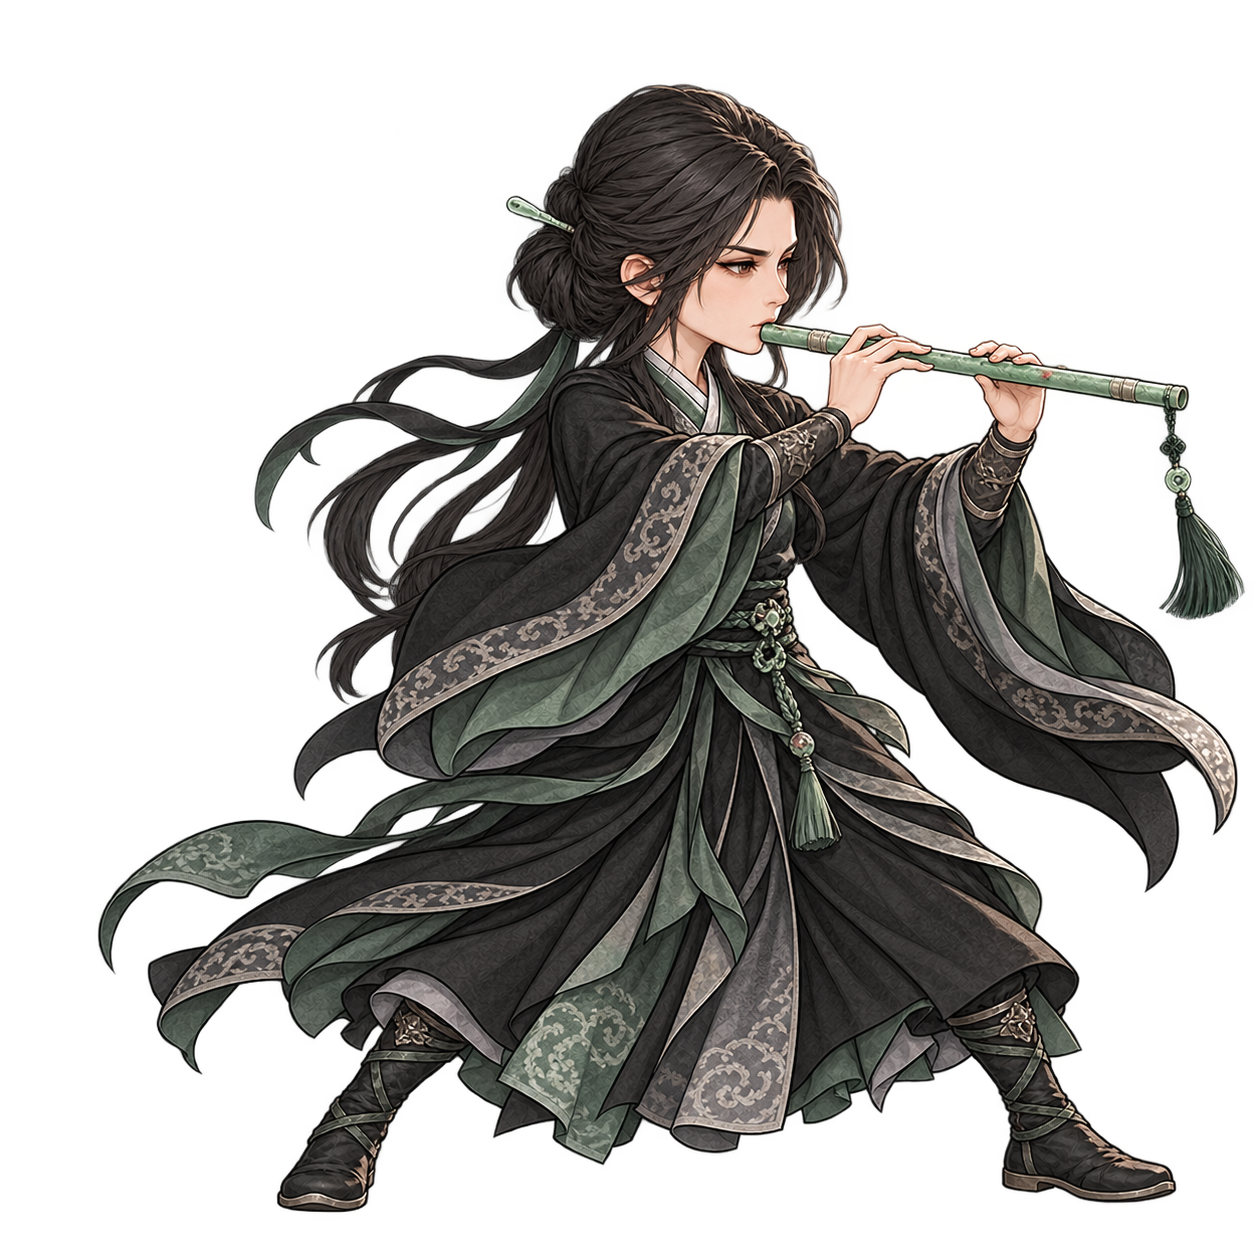
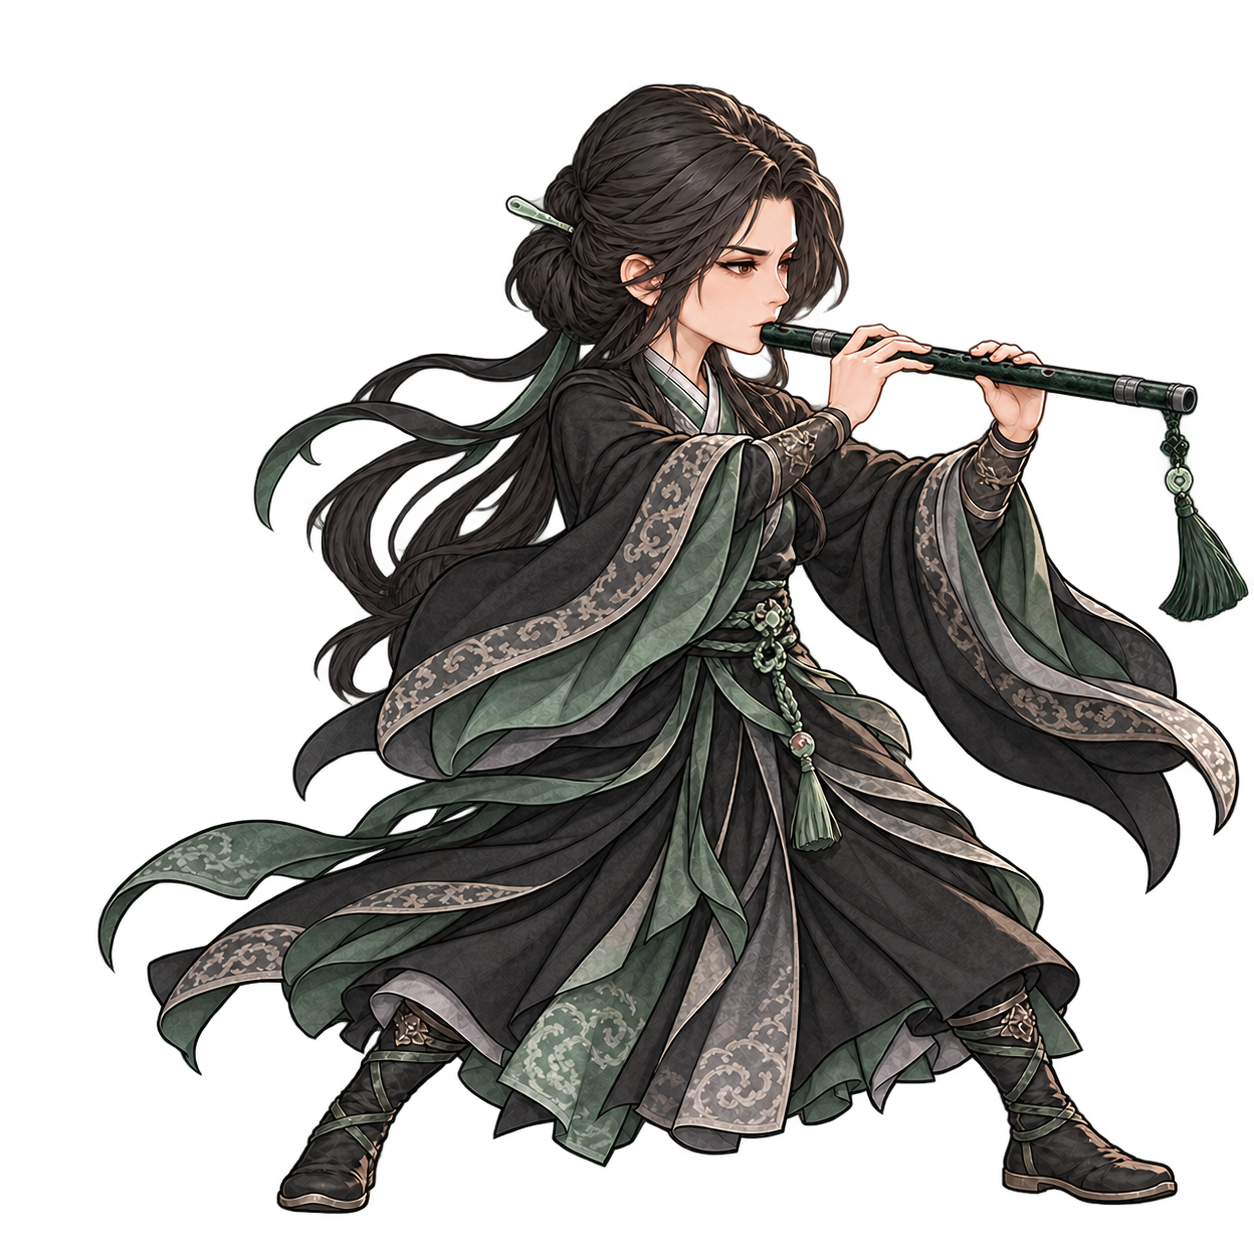
Complete major character battle sprites and paired formations

diff --git a/Docs/ART_LOOKS.md b/Docs/ART_LOOKS.md
@@ -413,3 +413,22 @@
 기존 개인전 ArtId가 새 Battle 파일을 조회하며 코드·진행·전투 수치·보상은 변경하지 않는다. 단혜·사란의 `mothers_fire_ice`, 효민·효효의 `gal_hyo_duet`은 별개 복합 그림 키이므로 개인 한 명의 SD로 대체하지 않는다. 기존 세 번째 묶음의 5명과 Standing·다른 Battle·default SD는 유지한다.
 
 검증: 5종 모두 1254×1254 RGBA·비중복 이미지·고유 Unity GUID다. 가시 영역과 무기·소품·발끝은 캔버스 안에 있다. 모서리는 투명하며 단혜·사란의 좌하단만 1/255 미세 노이즈다. 실제 ArtLibrary 소스와 파일 기반 Resources 대역으로 개인 키 5개·해당 적 5개가 전용 SD를 조회함을 확인했고, 기존 default 3종의 대체 규칙·StoryCast 식별 검사도 통과했다. 코드 변경은 없으며 Unity 에디터의 실제 렌더링·적 좌우 반전·전투 칸 크기는 확인하지 못했다.
+
+
+### 중요 인물 잔여 SD 및 복합 그림 완료 — 2026-11-01
+
+사용자의 「나머지 중요 인물 전부」 요청에 따라 남은 3명과 복합 2종을 추가했다. 개인 23명+복합 2종의 완료 목록은 [IMPORTANT_SD_ROSTER.md](IMPORTANT_SD_ROSTER.md)를 따른다. 새 개인 3명은 동일 키 Standing이 없어 28~29권 재분석에 확인된 요소로 디자인했다. 전부 오른쪽을 바라보는 1254×1254 RGBA이며, 복합 그림은 기존 개인 SD를 직접 참조했다.
+
+| 대상 / Battle 키 | 확인된 원작 요소 | 이번 미술 해석 |
+|---|---|---|
+| 갈효효 / `gal_hyo_hyo` | 일곱째 딸·은창선녀·구련창/질풍은섬창, 은금 속에서 꺼내는 은창 삼은령(28~29권) | 짧은 검은 머리와 은색 끈·작은 매듭, 당찬 눈매·곧은 눈썹과 굳은 입매, 검은 옷·청회/은색 안감, 등에 은금을 메고 양손으로 은창을 잡는 자세 |
+| 갈효묘 / `gal_hyo_myo` | 열여섯 막내·표묘선녀·연검, 흑설묘·인질극을 자원하는 기민함(28~29권) | 어린 티가 나는 둥근 얼굴·장난스러운 미소·낮은 머리 매듭과 검정/회보라의 완전히 덮인 무복, 낮게 굽은 연검과 뒤쪽 발의 작은 짙은 고양이. 고양이 털/눈 색은 미술 해석 |
+| 흑견 / `heukgyeon` | 흑천십비 노졸·이마의 犬 자·흑오박룡삭·흑견후, 무화에 대한 광신적 충성·추적/위장/생포(28~29권) | 벗겨진 정수리·옆머리와 수염·깊은 주름·큰 코·거친 도발 표정, 검정/갈색의 닳은 무복과 두 손으로 다루는 검은 밧줄. 개나 늑대로 의인화하지 않음 |
+| 단혜·사란 / `mothers_fire_ice` | 불꽃과 얼음의 합격(29권) | 개인 SD의 붉은 머리/호리병/화염 손과 검은 낮은 머리/청회 안감/빙편을 함께 배치. 두 얼굴과 손의 방향은 오른쪽, 하나의 새 인물로 합치지 않음 |
+| 갈효민·갈효효 / `gal_hyo_duet` | 흑옥 흑소와 은금(칠현금)의 합주·무음탄주(29권) | 효민은 뒤에서 서서 흑소, 효효는 앞에서 낮게 앉아 은금 연주. 개인의 얼굴·머리·복식은 보존하고 은창은 합주 그림에서 따로 꺼내지 않음 |
+
+갈효민 개인 SD의 피리는 29권에서 확인된 흑옥 흑소에 맞춰 옅은 녹색에서 흑녹색으로 바꿨다. 기존 파일명·Unity `.meta`·GUID와 얼굴·복식·자세는 유지하며, 합주 그림도 같은 피리를 사용한다. 직전 4차의 옥소 표시는 악기 종류이며 정확한 밝은 녹색은 최신 29권 근거에 따라 대체한다.
+
+얼굴 골격·연령 인상·세부 머리·표정·복식 문양·고양이 색·세부 무기 장식은 게임용 미술 해석이다. 효묘의 자발적 합류 동기를 확정된 연애로 바꾸거나 고양이에게 새 전투 능력을 추가하지 않는다. 흑견의 패배를 사망으로 바꾸지 않는다. 복합 그림은 같은 전투 칸의 장면 표현이며 새 동료 편성이나 전투 규칙이 아니다. 기존 ArtId로 연결하고 코드·위력·진행·보상은 변경하지 않는다.
+
+검증: 신규 5장과 흑소 수정 1장은 모두 1254×1254 RGBA이며 가시 인물·악기·무기·고양이 영역이 캔버스 안에 있다. 신규 Unity GUID는 중복이 없고 효민의 기존 메타는 바이트 단위로 보존했다. 모서리 알파는 0이며 효묘·합격·합주의 좌하단만 1/255 미세 노이즈다. 현재 Core 빌드와 기존 StoryCast 식별 검사가 통과했다. 실제 ArtLibrary 소스에 파일 기반 Resources/도형 대역을 적용한 검사에서 개인 23명+복합 2키·관련 적 57개 변형의 전용 SD 연결과 남은 default 3종 규칙을 확인했다. Unity 실제 렌더링·좌우 반전·칸 내부 크기·Android 화면은 확인하지 못했다.

diff --git a/Docs/IMPORTANT_SD_ROSTER.md b/Docs/IMPORTANT_SD_ROSTER.md
@@ -1,0 +1,38 @@
+# 중요 인물 전투 SD 완료 목록
+
+2026-11-01: 처음 사용자에게 중요로 분류한 23명과 복합 그림 2종의 제작·리소스 연결을 완료했다. 애매로 분류한 인물 전체나 대화에만 등장하는 추가 인물을 완료했다는 뜻은 아니다. 실제 Unity 렌더링은 확인하지 못했다.
+
+| 인물 | Battle 키 | 상태 |
+|---|---|---|
+| 나일천 / 서천 | `na_ilcheon` | 전용 SD |
+| 무명 | `mumyeong` | 전용 SD |
+| 칠상흔 / 이벽한 | `chil_sangheun` | 전용 SD |
+| 독고령 / 영령 | `dokgo_ryeong` | 전용 SD |
+| 공손절휘 | `gongson_jeolhwi` | 전용 SD |
+| 진령 | `jin_ryeong` | 전용 SD |
+| 임덕성 | `im_deokseong` | 전용 SD |
+| 검성 모용정천 | `geom_seong` | 전용 SD |
+| 흑룡왕 해응신 | `heukryong_wang` | 전용 SD |
+| 락비오 | `rakbio` | 전용 SD |
+| 자군 | `jagun` | 전용 SD |
+| 전혼 | `jeonhon` | 전용 SD |
+| 창랑 / 마랑객 | `changrang` | 전용 SD |
+| 혈심란 교옥 | `gyo_ok` | 전용 SD |
+| 구천현녀 무화 | `mu_hwa` | 전용 SD |
+| 단혜 | `dan_hye` | 전용 SD |
+| 사란 | `sa_ran` | 전용 SD |
+| 갈효린 | `gal_hyo_rin` | 전용 SD |
+| 갈효진 | `gal_hyo_jin` | 전용 SD |
+| 갈효민 | `gal_hyo_min` | 전용 SD |
+| 갈효효 | `gal_hyo_hyo` | 전용 SD |
+| 갈효묘 | `gal_hyo_myo` | 전용 SD |
+| 흑견 | `heukgyeon` | 전용 SD |
+
+| 복합 그림 | Battle 키 | 상태 |
+|---|---|---|
+| 단혜·사란 불꽃과 얼음 | `mothers_fire_ice` | 두 인물의 합격 SD |
+| 갈효민·갈효효 무음탄주 | `gal_hyo_duet` | 흑소·은금 합주 SD |
+
+무명은 사용자 정정에 따라 백발·주름 없는 40대 초중반 외형과 녹슨 검으로, 임덕성은 사용자 선택대로 낭아도로 표현한다. 검성은 현재 전투에서 환영으로 나온다. 갈효민은 29권의 흑옥 흑소로 개인·합주 그림을 맞췄다. 디자인 근거와 미술 해석은 [ART_LOOKS.md](ART_LOOKS.md)의 각 제작 차수에 기록한다.
+
+검증: 현재 코드의 25개 키에 연결된 적 57개 변형 모두에서 전용 SD를 조회했다. 실제 ArtLibrary 소스와 파일 기반 Resources/도형 대역으로 검사했으며, 기본 남성·여성·암살자 대체 규칙도 유지된다. Core 빌드와 StoryCast 식별 검사를 통과했다. Unity 에디터의 최종 렌더링은 미검증이다.

diff --git a/Story/GAME_MAPPING.md b/Story/GAME_MAPPING.md
@@ -1031,3 +1031,11 @@ Standing에 남아 있던 한글 파일명 23건도 영문 키로 변경했다. 
 - 단혜(`dan_hye`, 29권 염벽 옥쇄), 사란(`sa_ran`, 29권 절대빙벽), 쌍둥이 갈효린·갈효진(`gal_hyo_rin`/`gal_hyo_jin`, 28권 이화합격진/건패염진), 갈효민(`gal_hyo_min`, 29권 무혼초령음)의 전용 SD를 추가했다. 28~29권 재분석의 검은 흉복·무기·성격을 따르며 얼굴·세부 배색 등은 미술 해석으로 분리한다.
 - 쌍둥이는 닮은 얼굴과 다른 머리·장법 자세로 식별한다. 새 무기·인물·가계·역할 분담·전투 규칙·보상은 추가하지 않는다. 단혜·사란 및 효민·효효의 복합 키에 개인 SD를 억지로 공유하지 않는다.
 - 근거와 디자인 구분은 [ART_LOOKS.md](../Docs/ART_LOOKS.md)의 4차 표를 따른다. 앞선 3차 SD 작업은 그대로 보존한다.
+
+
+### 중요 인물 SD 전원 및 복합 그림 완료 — 2026-11-01
+
+- 갈효효(`gal_hyo_hyo`, 29권 구련창/질풍은섬창), 갈효묘(`gal_hyo_myo`, 28~29권 연검·흑설묘·인질극), 흑견(`heukgyeon`, 28~29권 남문/추적/위장/생포)의 전용 SD를 추가했다. 기존 키·해당 장면의 표시 이름·퇴각 규칙은 유지한다.
+- 단혜·사란 합격(`mothers_fire_ice`)과 효민·효효 무음탄주(`gal_hyo_duet`)를 기존 개인 SD 기반 두 인물 그림으로 완성했다. 복합 키를 개인 한 명의 그림으로 대체하지 않는다.
+- 효민의 개인·합주 피리는 29권의 흑옥 흑소로 맞추고 기존 개인 GUID를 유지했다. 효효는 개인전의 은창과 합주의 은금을 구분한다. 효묘의 동기·흑견의 생존과 석방 경로에 새 사실을 추가하지 않는다.
+- 최초 중요 목록 23명+복합 2종의 제작 완료표는 [IMPORTANT_SD_ROSTER.md](../Docs/IMPORTANT_SD_ROSTER.md), 원작/미술 해석 구분은 [ART_LOOKS.md](../Docs/ART_LOOKS.md)의 잔여 SD 표를 따른다. 전투 수치·사건·보상은 추가하지 않는다.
